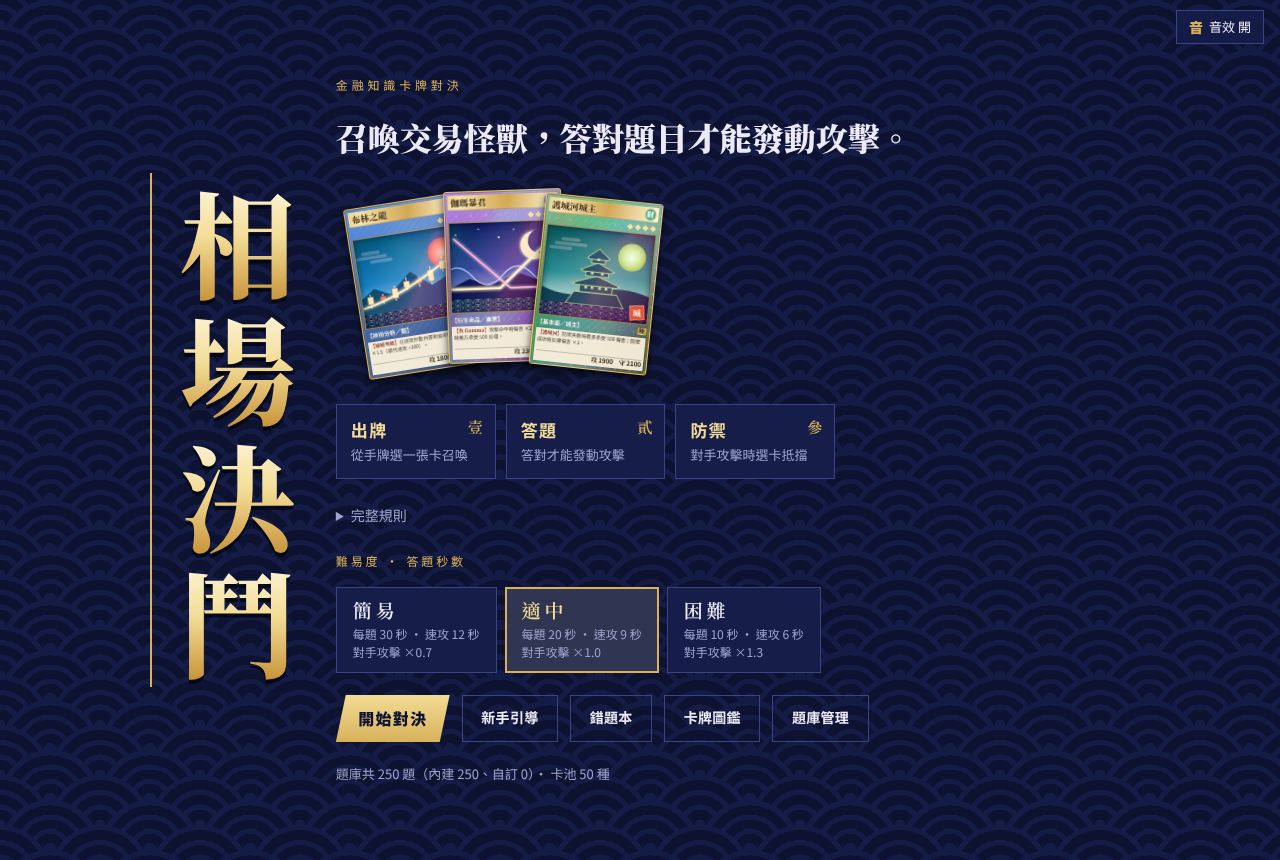
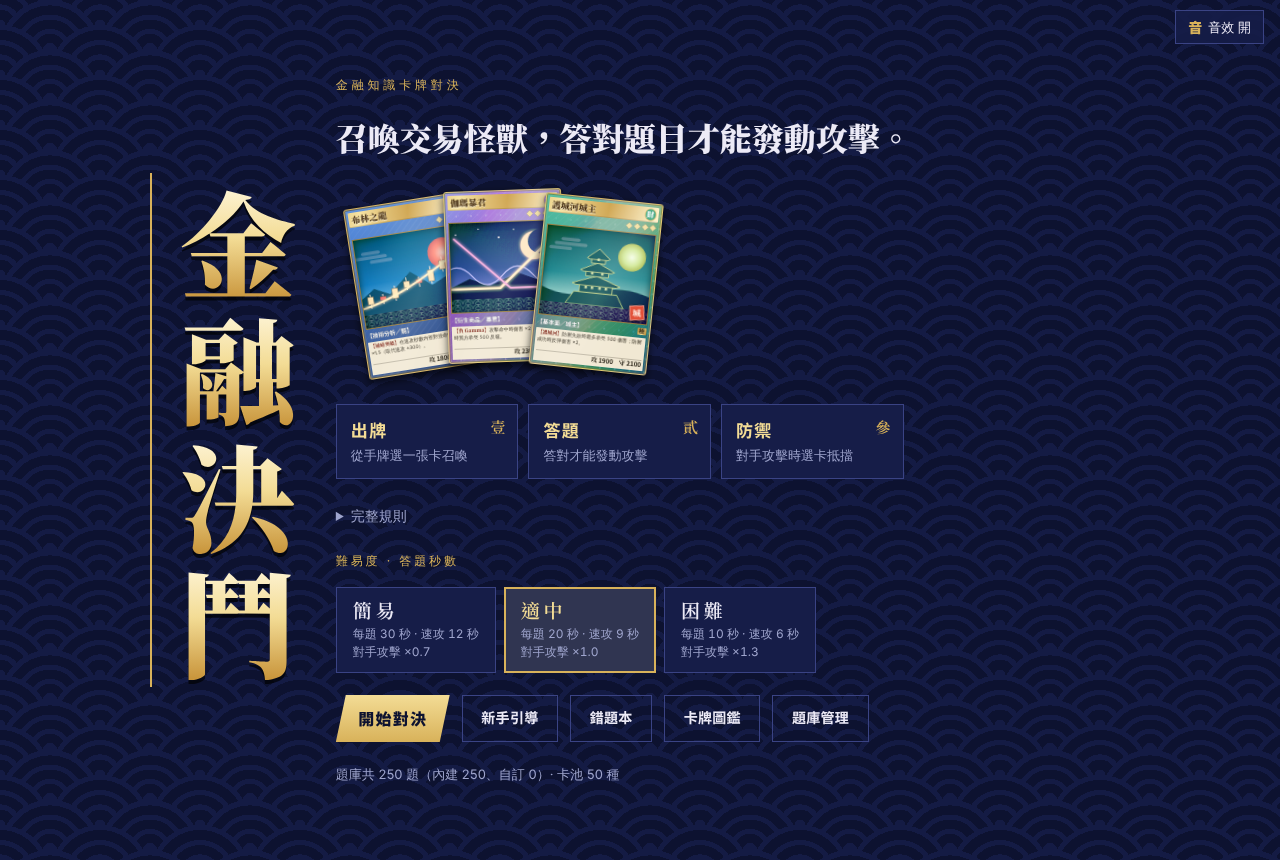
分享預覽圖改為「金融決鬥」新標題畫面
- 新增 1200x630 的 og-image.png，og:image 改用絕對網址
- 補上 og:url、圖片尺寸與 twitter card 標籤
- 更新 README 用的標題截圖

Claude-Session: https://claude.ai/code/session_01Ya2QBSUFQUuq4X23iaALjW

diff --git a/index.html b/index.html
@@ -14,7 +14,16 @@
 <meta property="og:type" content="website">
 <meta property="og:title" content="金融決鬥">
 <meta property="og:description" content="召喚交易怪獸，答對金融題目才能攻擊或防禦。免安裝，打開網址即可對戰。">
-<meta property="og:image" content="docs/media/title-desktop.png">
+<meta property="og:url" content="https://maxtrader0207.github.io/financial-duel/">
+<meta property="og:site_name" content="金融決鬥">
+<meta property="og:locale" content="zh_TW">
+<meta property="og:image" content="https://maxtrader0207.github.io/financial-duel/og-image.png?v=2">
+<meta property="og:image:width" content="1200">
+<meta property="og:image:height" content="630">
+<meta property="og:image:alt" content="金融決鬥 標題畫面">
+<meta name="twitter:card" content="summary_large_image">
+<meta name="twitter:title" content="金融決鬥">
+<meta name="twitter:image" content="https://maxtrader0207.github.io/financial-duel/og-image.png?v=2">
 <link rel="icon" href="icon.svg" type="image/svg+xml">
 <link rel="apple-touch-icon" href="icon-192.png">
 <link rel="manifest" href="manifest.webmanifest">
